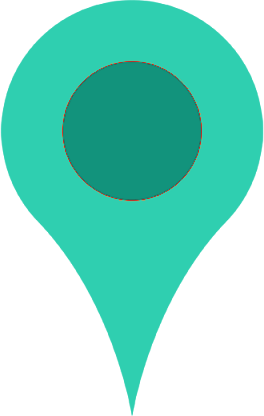
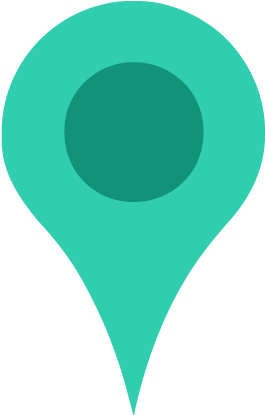
Update css

diff --git a/public/css/app.css b/public/css/app.css
@@ -1525,8 +1525,8 @@
 	    -ms-transform: translate(-50%, -50%);
 	        transform: translate(-50%, -50%);
 	width: 400px;
-	-webkit-filter: opacity(0.1);
-	        filter: opacity(0.1);
+	-webkit-filter: opacity(0.07);
+	        filter: opacity(0.07);
 	z-index: -10;
 }
 
@@ -1555,8 +1555,8 @@
         -ms-transform: translate(-50%, -50%);
             transform: translate(-50%, -50%);
     width: 350px;
-	filter: opacity(0.1);
-	-webkit-filter: opacity(0.1);
+	filter: opacity(0.07);
+	-webkit-filter: opacity(0.07);
 	z-index: -10;
 }
 
@@ -1585,11 +1585,10 @@
 	    -ms-transform: translate(-50%, -50%);
 	        transform: translate(-50%, -50%);
 	width: 500px;
-	-webkit-filter: opacity(0.1);
-	        filter: opacity(0.1);
+	-webkit-filter: opacity(0.07);
+	        filter: opacity(0.07);
 	z-index: -10;
 }
-
 
 #create .create__form {
 	padding: 1.5rem;
@@ -1602,6 +1601,118 @@
 
 #create .create__form #event_description {
 	height: 200px;
+}
+
+/*****************************************************************? REPORT */
+
+#report {
+	position: relative;
+	margin: 0 auto;
+}
+
+#report .pinmap {
+	position: absolute;
+	top: 55%;
+	left: 50%;
+	-webkit-transform: translate(-50%, -50%);
+	    -ms-transform: translate(-50%, -50%);
+	        transform: translate(-50%, -50%);
+	width: 350px;
+	-webkit-filter: opacity(0.07);
+	        filter: opacity(0.07);
+	z-index: -10;
+}
+
+#report .report__form {
+	padding: 1.5rem;
+	backdrop-filter: blur(10px);
+    -webkit-backdrop-filter: blur(10px) saturate(130%);
+    background-color: rgba(255, 255, 255, 0.14);
+    border-radius: 5px;
+    border: 1px solid rgba(0, 0, 0, 0.1);
+}
+
+#report .report__form #report_message {
+	height: 120px;
+}
+
+/*****************************************************************? RESET */
+
+#request {
+	position: relative;
+	margin: 0 auto;
+}
+
+#request .pinmap {
+	position: absolute;
+	top: 55%;
+	left: 50%;
+	-webkit-transform: translate(-50%, -50%);
+	    -ms-transform: translate(-50%, -50%);
+	        transform: translate(-50%, -50%);
+	width: 350px;
+	-webkit-filter: opacity(0.07);
+	        filter: opacity(0.07);
+	z-index: -10;
+}
+
+#request .request__form {
+	padding: 1.5rem;
+	backdrop-filter: blur(10px);
+    -webkit-backdrop-filter: blur(10px) saturate(130%);
+    background-color: rgba(255, 255, 255, 0.14);
+    border-radius: 5px;
+    border: 1px solid rgba(0, 0, 0, 0.1);
+}
+
+
+/*****************************************************************? CHECK EMAIL */
+
+#checkEmail {
+	position: relative;
+	margin: 0 auto 10rem;
+}
+
+#checkEmail .pinmap {
+	position: absolute;
+	top: 65%;
+	left: 50%;
+	-webkit-transform: translate(-50%, -50%);
+	    -ms-transform: translate(-50%, -50%);
+	        transform: translate(-50%, -50%);
+	width: 350px;
+	-webkit-filter: opacity(0.07);
+	        filter: opacity(0.07);
+	z-index: -10;
+}
+
+/*****************************************************************? RESET PASSWORD */
+
+#reset {
+	position: relative;
+	margin: 0 auto;
+}
+
+#reset .pinmap {
+	position: absolute;
+	top: 35%;
+	left: 50%;
+	-webkit-transform: translate(-50%, -50%);
+	    -ms-transform: translate(-50%, -50%);
+	        transform: translate(-50%, -50%);
+	width: 350px;
+	-webkit-filter: opacity(0.07);
+	        filter: opacity(0.07);
+	z-index: -10;
+}
+
+#reset .reset__form {
+	padding: 1.5rem;
+	backdrop-filter: blur(10px);
+    -webkit-backdrop-filter: blur(10px) saturate(130%);
+    background-color: rgba(255, 255, 255, 0.14);
+    border-radius: 5px;
+    border: 1px solid rgba(0, 0, 0, 0.1);
 }
 
 /*****************************************************************? FOOTER */
@@ -1702,7 +1813,7 @@
 	/************************************************ HOME  */
 	.home__title {
 		margin: 3rem 0;
-		font-size: 3rem;
+		font-size: 2.5rem;
 	}
 
 	.home__title:after {
@@ -1761,7 +1872,7 @@
 
 	.home__title {
 		margin: 3rem 0;
-		font-size: 3.5rem;
+		font-size: 3rem;
 	}
 
 	/************************************************ HOME  */
@@ -2006,7 +2117,7 @@
 
 	/************************************************ HOME  */
 	.topScore {
-		-ms-grid-columns: (1fr)[3];
+		-ms-grid-columns: repeat(3, 1fr);
 		grid-template-columns: repeat(3, 1fr);
 	}
 
